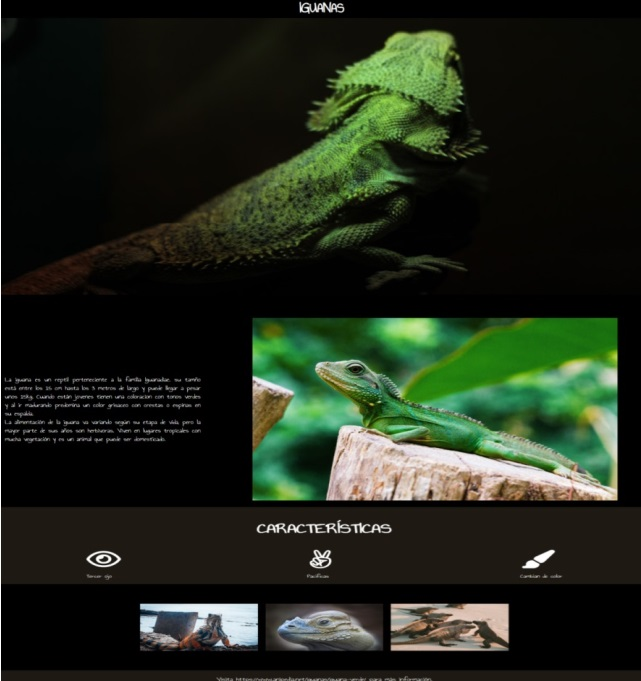
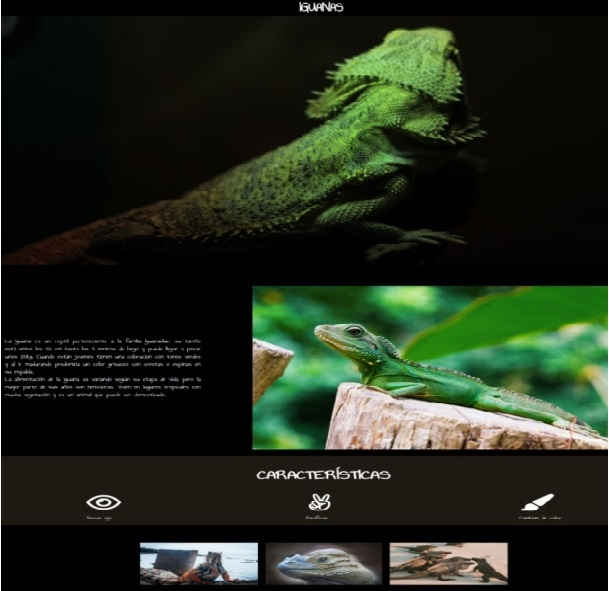
animaciones

diff --git a/assets/css/style.css b/assets/css/style.css
@@ -17,6 +17,7 @@ body{
 .brand img {
     width: 80px;
     border-radius: 14px;
+    filter: drop-shadow(0px 7px 14px #04f5a6);
 }
 .navbar {
     grid-area: nav;
@@ -35,8 +36,8 @@ body{
     text-decoration: none;
 }
 .menu a:hover {
-    color: 	#00FFFF;
-    background-color: #9B59B6;
+    color: #04f5a6;
+    background-color: #2C235A;
     transition: ease-in .4s;
 }
 
@@ -66,6 +67,7 @@ h1 {
     margin-top: 5px;
     cursor:pointer;
     background-color: 	#4A235A;
+    transition: background-color 0.4s ease-in;
 }
 
 .ver_curriculum:hover {
@@ -91,6 +93,7 @@ h1 {
 main {
     grid-area: main;
     background-color: #154360;
+    gap: 2rem;
 
 }
 .galeria{
@@ -98,51 +101,70 @@ main {
     flex-direction: column;
     justify-content: center;
     gap: 1 rem;
-    margin: auto;
-    width: 60%;
-
-    
+    margin: auto;    
 }
+
 .tarjeta{
     display: flex;
     flex-direction: column;
+    justify-content: center;
+    align-items: center;
     width: 100%;
     margin: 2px;
     flex-wrap: wrap;
     flex-grow: 1;
-    margin: 4px;
     border: solid 2px #4A235A;
     border-radius: 10px;
+    
 }
 .tarjeta img{
+    display: block;
     width: 100%;
     object-fit: contain;
-    height: 200px;
+    height: 100%;
     border-radius: 10px;
     margin-top: 6px;
-    transition: transform 0.4s;
+}
+@keyframes show {
+    from {
+        opacity: 0;
+        scale:25%;
+    }
+    to {
+        opacity: 1;
+        scale: 100%;
+    }
+}
+.tarjeta img {
+    view-timeline-name: --image;
+    view-timeline-axis: block;
+    animation-timeline: --image;
+    animation-name: show;
+    animation-range: entry 25% cover 70%;
+    animation-fill-mode: both;
 }
 
-.tarjeta img:hover{
-    transform: scale(1.8);
-}
+
 .contenido{
     display: flex;
     flex-direction: column;
     align-items: center;
+    
 }
 .boton{
     display: flex;
     justify-content: center;
     background-color: #04f5a6;
+    border-radius: 20px ;
+    cursor: pointer;
     transition: background-color 0.3s ease-out ;
 }
 .boton:hover{
     background-color: #4A235A;
 }
 
-section {
-    grid-area: section;
+footer {
+    grid-area: footer;
     display: flex;
     justify-content: center;
     
@@ -152,7 +174,7 @@ section {
 .container {
     background-color:#4A235A;
     width: 60%;
-    height: 120px;
+    height: 140px;
     color: #04f5a6;
     border-radius: 10px;
     display: flex;
@@ -170,60 +192,45 @@ section {
 }
 
 .logos {
-    margin-top: 8px;
+    margin: 2px;
     display: flex;
     align-items: center;
-    justify-content: space-between;
-    
-
-    
+    justify-content: space-between;  
 }
 
 .container i {
-    color: #04f5a6;   
+    color: #154360;   
     margin: 16px;
 }
 
 
-footer {
-    grid-area: footer;
-    background-color: #4A235A;
-    color: #04f5a6;
-    display: flex;
-    justify-content: center;
-    align-items: center;
-    height: 32px;
-    
-}
-footer p {
-    text-align: center;
-    text-decoration: none;
-}
 
 .grid-container {
     display: grid;
-    grid-template-areas: "nav" "hero" "main" "section" "footer";
+    grid-template-areas: "nav" "hero" "main" "footer";
     grid-template-columns: 1fr;
 }
 
 /* versión de escritorio */
 
 @media (min-width: 576px) {
-
-    .grid-container{
-    display: grid;
-    grid-template-areas: "hero hero" "nav main" "section section" "footer footer";
-    grid-template-columns: 2fr 10fr;
+    body{
+        font-family: "Bad Script", cursive;
+        width: 100vw;
+        height: fit-content;
+        background-color: #2C235A;
+        color: #fff;
     }
+   
     .navbar{
-        font-size: 20px;
+        font-size: 30px;
         display: grow;
         flex-direction: column;
         justify-content: flex-start;
 
     }
     .brand img {
-        width: 90%;
+        width: 80%;
         justify-content: center;
         align-items: center;
     }
@@ -236,37 +243,57 @@ footer p {
 
     }
 
+    main {
+        height: auto;
+        margin: 5px 5px 5px 5px;
+    }
+   
     .galeria {
         display: grid;
         grid-template-columns: auto auto;
-        gap: 4 rem;
+        width: 90%;
+        height: auto;
+        gap: 4rem;
         
     }
 
     .tarjeta{
         display: flex;
         flex-direction: column;
-        width: 50vh;
-        height: 90vw;
-        height: auto;
+        justify-content: center;
+        width: 80vh;
+        height: 100%;
         flex-wrap: wrap;
         flex-grow: 1;
-        margin: 4px;
-        border: solid 2px #4A235A;
+        gap: 5px;
+        border: solid 6px #4A235A;
         border-radius: 10px;
-        
-        
-    }
-    .imagen{
-        margin: 8px;
-        width: 100%;
-        object-fit: contain;
-        border-radius: 10px;
-        transition: transform 0.4s;
+       
     }
     
-    .tarjeta img:hover{
-        transform: scale(3);
+    .tarjeta img{
+        width: 100%;
+        height: auto;
+        border-radius: 10px;
+        
+    }
+    @keyframes show {
+        from {
+            opacity: 0;
+            scale:25%;
+        }
+        to {
+            opacity: 1;
+            scale: 100%;
+        }
+    }
+    .tarjeta img {
+        view-timeline-name: --image;
+        view-timeline-axis: block;
+        animation-timeline: --image;
+        animation-name: show;
+        animation-range: entry 25% cover 70%;
+        animation-fill-mode: both;
     }
     
     
@@ -279,6 +306,7 @@ footer p {
         display: flex;
         justify-content: center;
         background-color: #04f5a6;
+        align-items: end;
     }
     
     .container {
@@ -295,14 +323,10 @@ footer p {
         justify-content: space-around;
     }
 
-
-    footer {
-        background-color:#154360;
-        margin: 0;
-        padding: 0;
-        font-size: 40px;
-        height: 60px;
-        color:#4A235A
-    }
+    .grid-container{
+        display: grid;
+        grid-template-areas: "hero hero" "nav main"  "footer footer";
+        grid-template-columns: 2fr 10fr;
+        }
 
 }

diff --git a/index.html b/index.html
@@ -92,33 +92,36 @@
             </div>
         </div>
     </main>
-    <section id="contacto">
-        
+    <footer id="contacto">
         <div class="container">
            
                 <h4>Contacto:</h4>
             
             <div class="logos">
                 <div>
-                    <a href="https://www.linkedin.com/in/carolina-andrea-flores-valdivia-36b0711ab/">
-                    <i class="fa-brands fa-2x fa-linkedin"></i></a>
+                    <button class="boton">
+                        <a href="https://www.linkedin.com/in/carolina-andrea-flores-valdivia-36b0711ab/">
+                        <i class="fa-brands fa-2x fa-linkedin"></i></a>
+                    </button>
                 </div>
                 <div>
-                    <a href="https://wa.me/+56997375300">
-                    <i class="fa-brands fa-2x fa-whatsapp"></i>
-                    </a>
+                    <button class="boton">
+                        <a href="https://wa.me/+56997375300">
+                        <i class="fa-brands fa-2x fa-whatsapp"></i>
+                        </a>
+                    </button>
                 </div>
                 <div>
+                <button class="boton">
                     <a href="mailto:c.floresvaldivia@hotmail.com">
                     <i class="fa-regular fa-2x fa-envelope"></i>
                     </a>
+                </button>
                 </div>
             </div>
         </div>
-    </section>
-    <footer>
-       <h6>Carolina Flores Valdivia</h6>
     </footer>
+   
    
     </div>
     <!-- scipts -->
